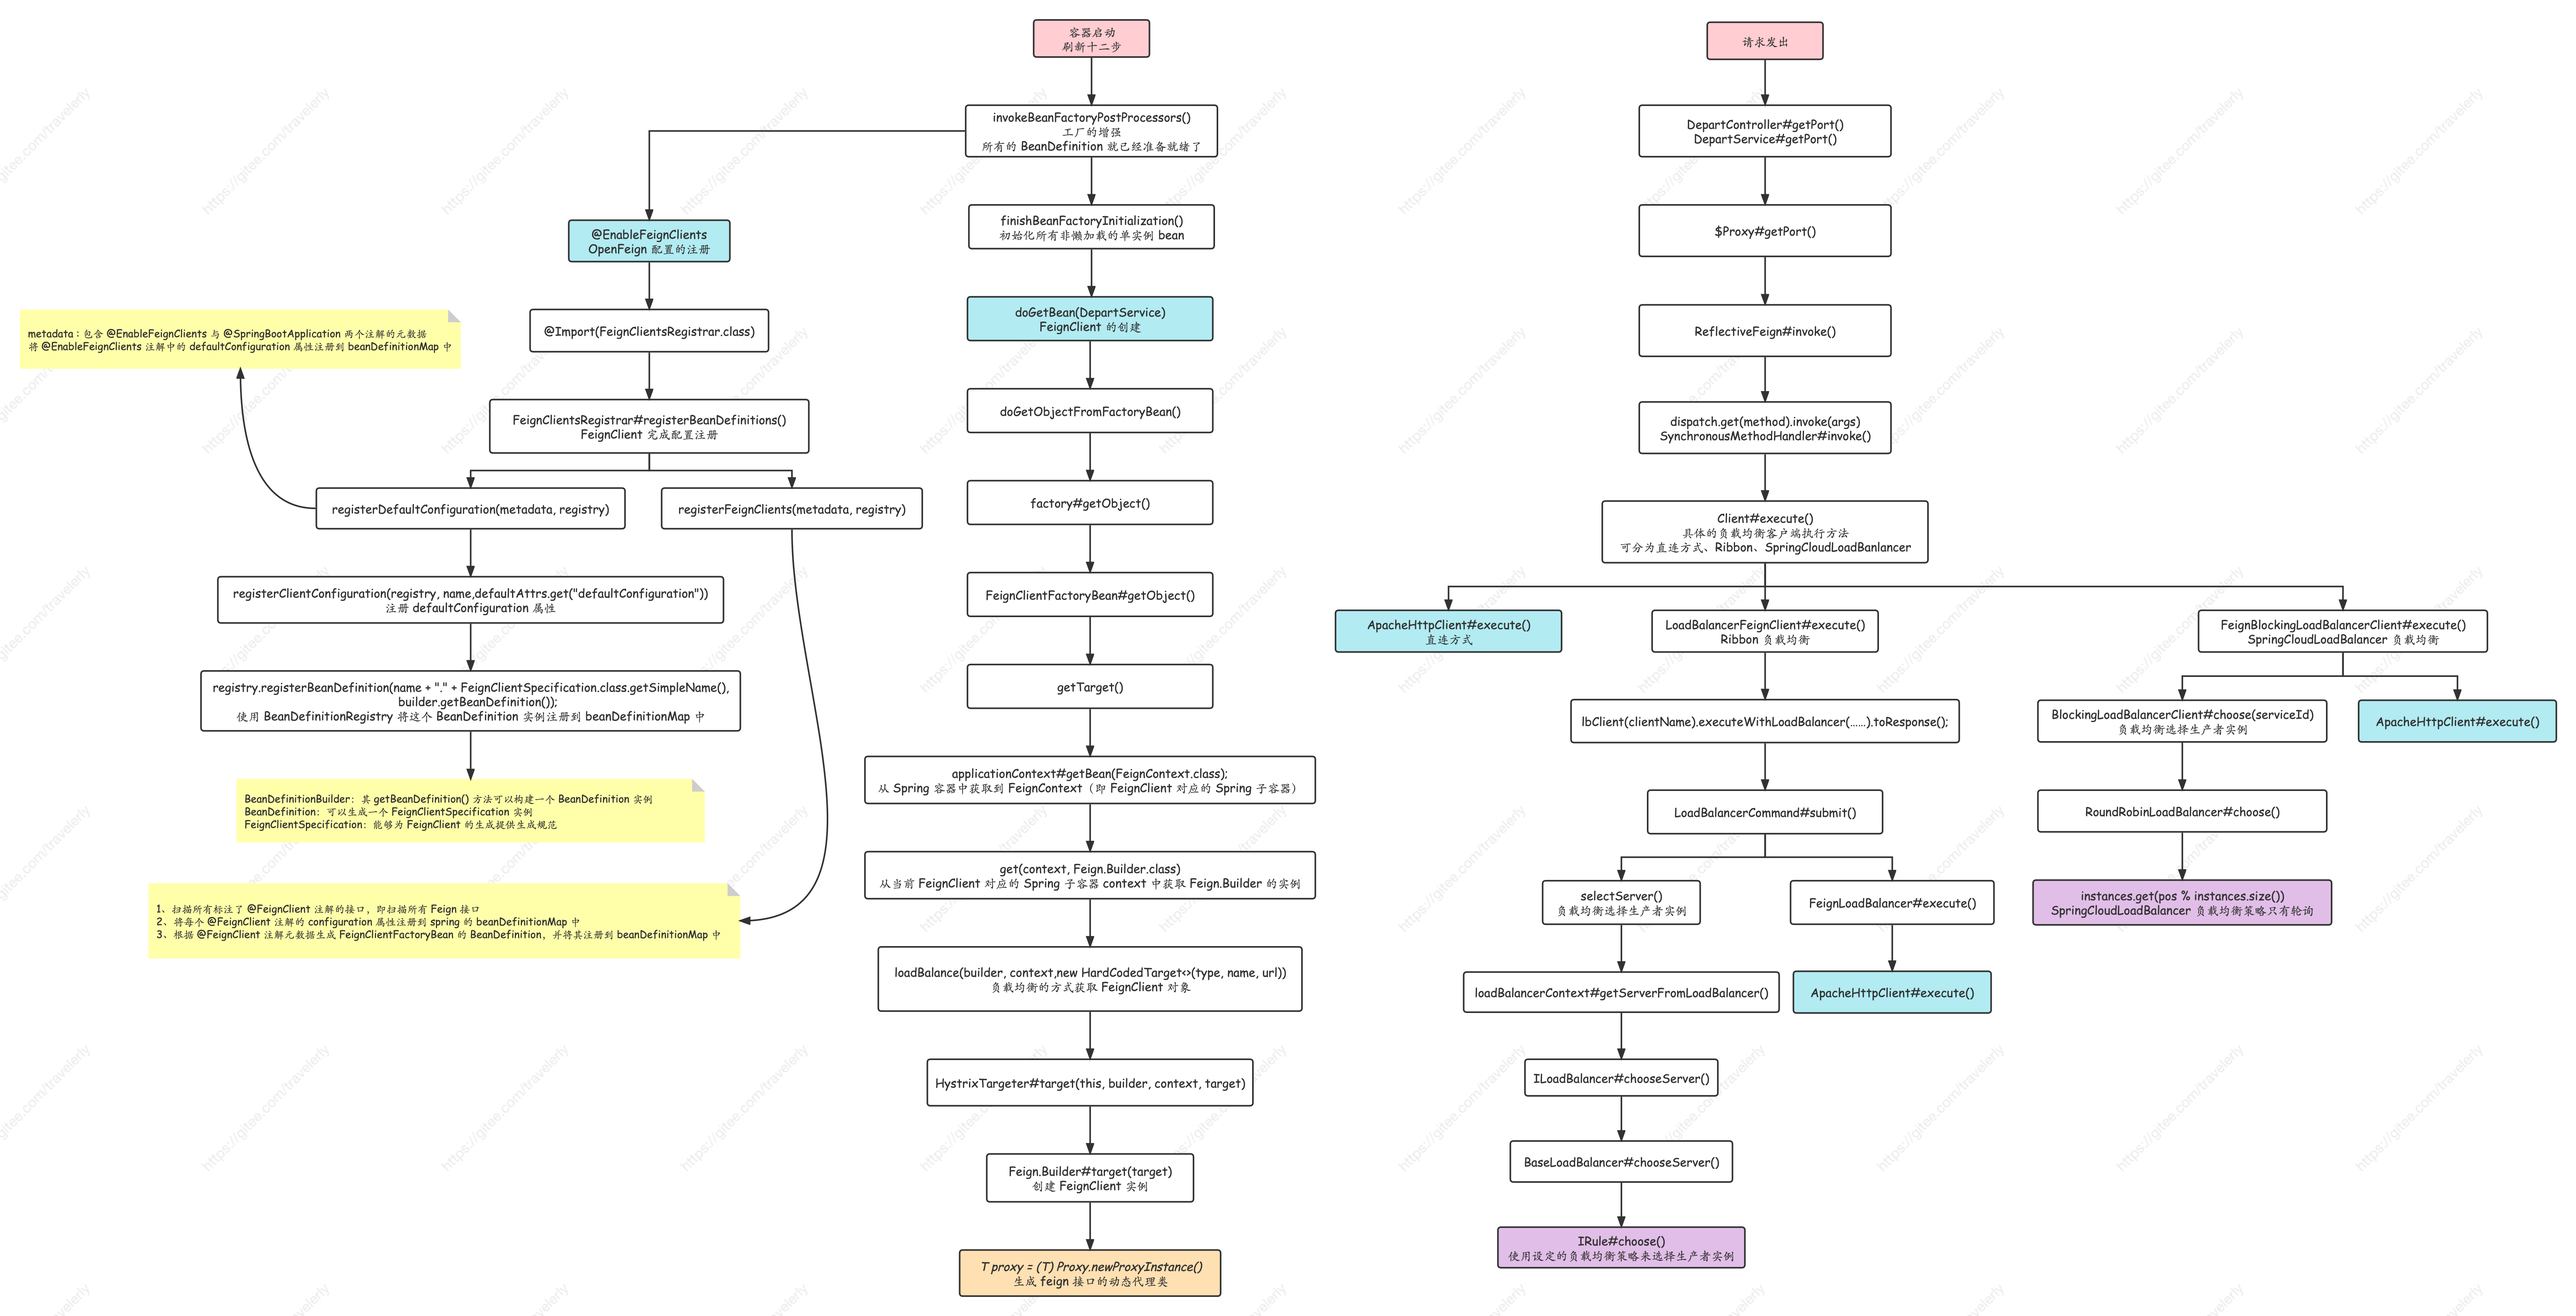
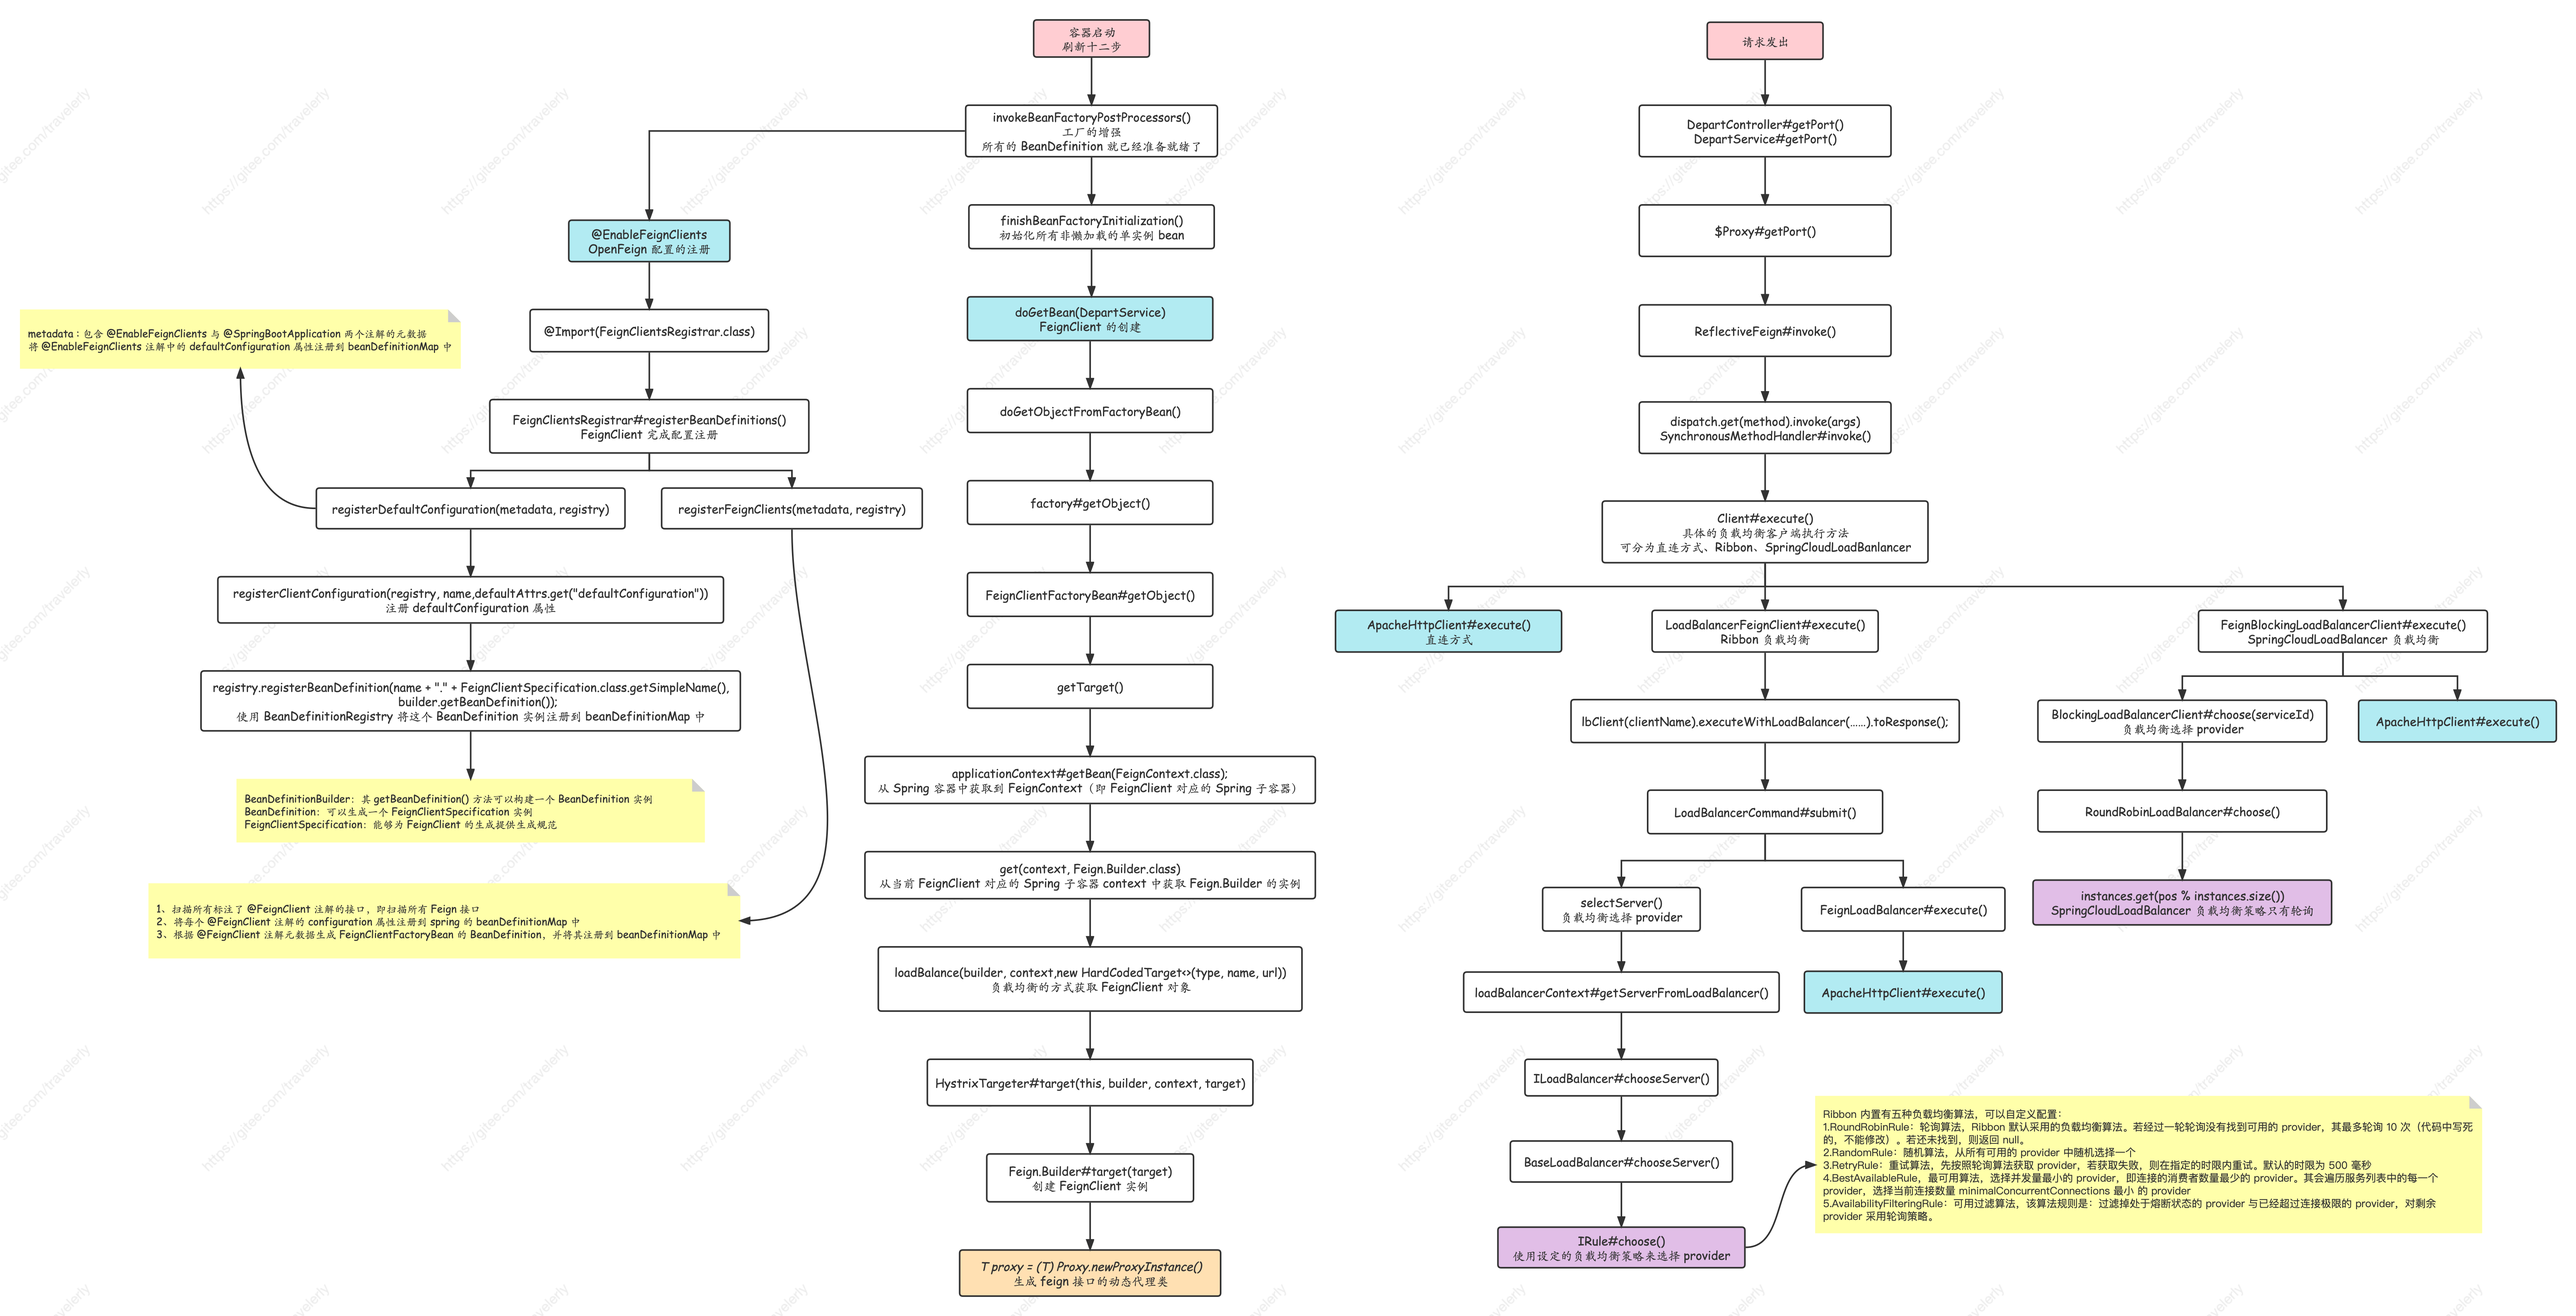
update

diff --git a/README.md b/README.md
@@ -269,7 +269,7 @@ FeignBlockingLoadBalancerClient.execute(Request request, Request.Options options
 
 ### RoundRobinRule
 
-轮询策略。Ribbon 默认采用的策略。若经过一轮轮询没有找到可用的 provider，其最多 轮询 10 轮（代码中写死的，不能修改）。若还未找到，则返回 null。
+轮询策略。Ribbon 默认采用的策略。若经过一轮轮询没有找到可用的 provider，其最多轮询 10 次（代码中写死的，不能修改）。若还未找到，则返回 null。
 
 ```java
 // 轮询算法
@@ -302,19 +302,19 @@ protected int chooseRandomInt(int serverCount) {
 
 ### RetryRule
 
-重试策略。先按照 RoundRobinRule 策略获取 server，若获取失败，则在指定的时限内重 试。默认的时限为 500 毫秒。
+重试策略。先按照轮询算法获取 provider，若获取失败，则在指定的时限内重 试。默认的时限为 500 毫秒。
 
 
 
 ### BestAvailableRule
 
-最可用策略。选择并发量最小的 provider，即连接的消费者数量最少的 provider。其会 遍历服务列表中的每一个 provider，选择当前连接数量 minimalConcurrentConnections 最小 的 provider。
+最可用策略。选择并发量最小的 provider，即连接的消费者数量最少的 provider。其会遍历服务列表中的每一个 provider，选择当前连接数量 minimalConcurrentConnections 最小 的 provider。
 
 
 
 ### AvailabilityFilteringRule
 
-可用过滤算法。该算法规则是：过滤掉处于熔断状态的 server 与已经超过连接极限的 server，对剩余 server 采用轮询策略。
+可用过滤算法。该算法规则是：过滤掉处于熔断状态的 provider 与已经超过连接极限的 provider，对剩余 provider 采用轮询策略。
 
 
 
